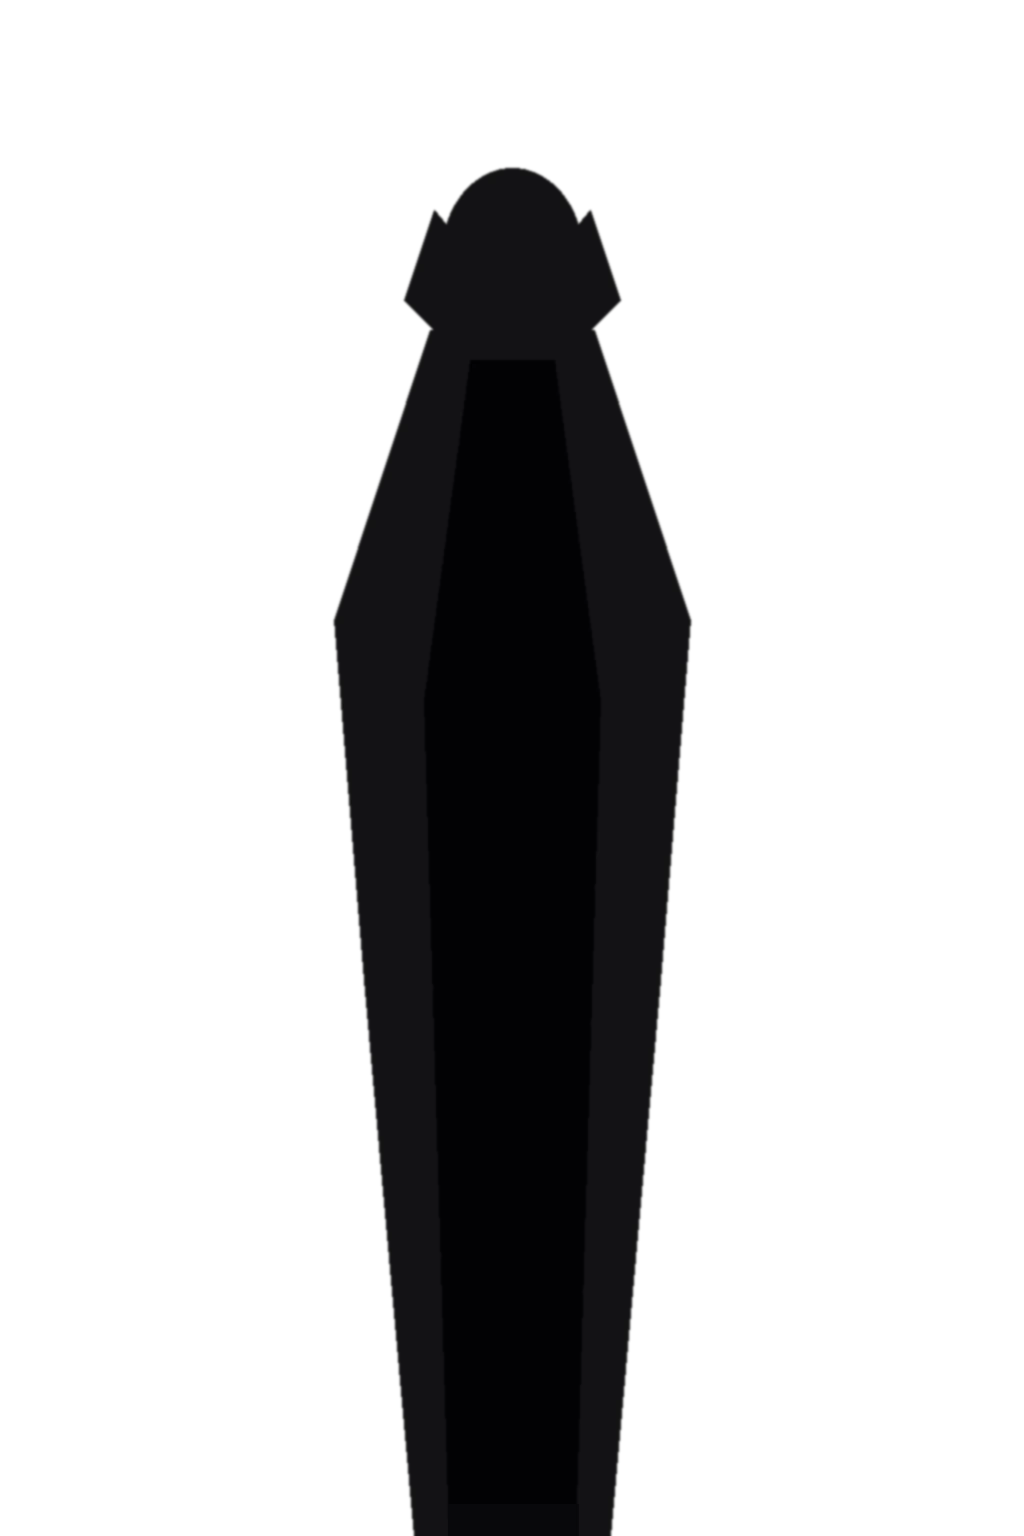
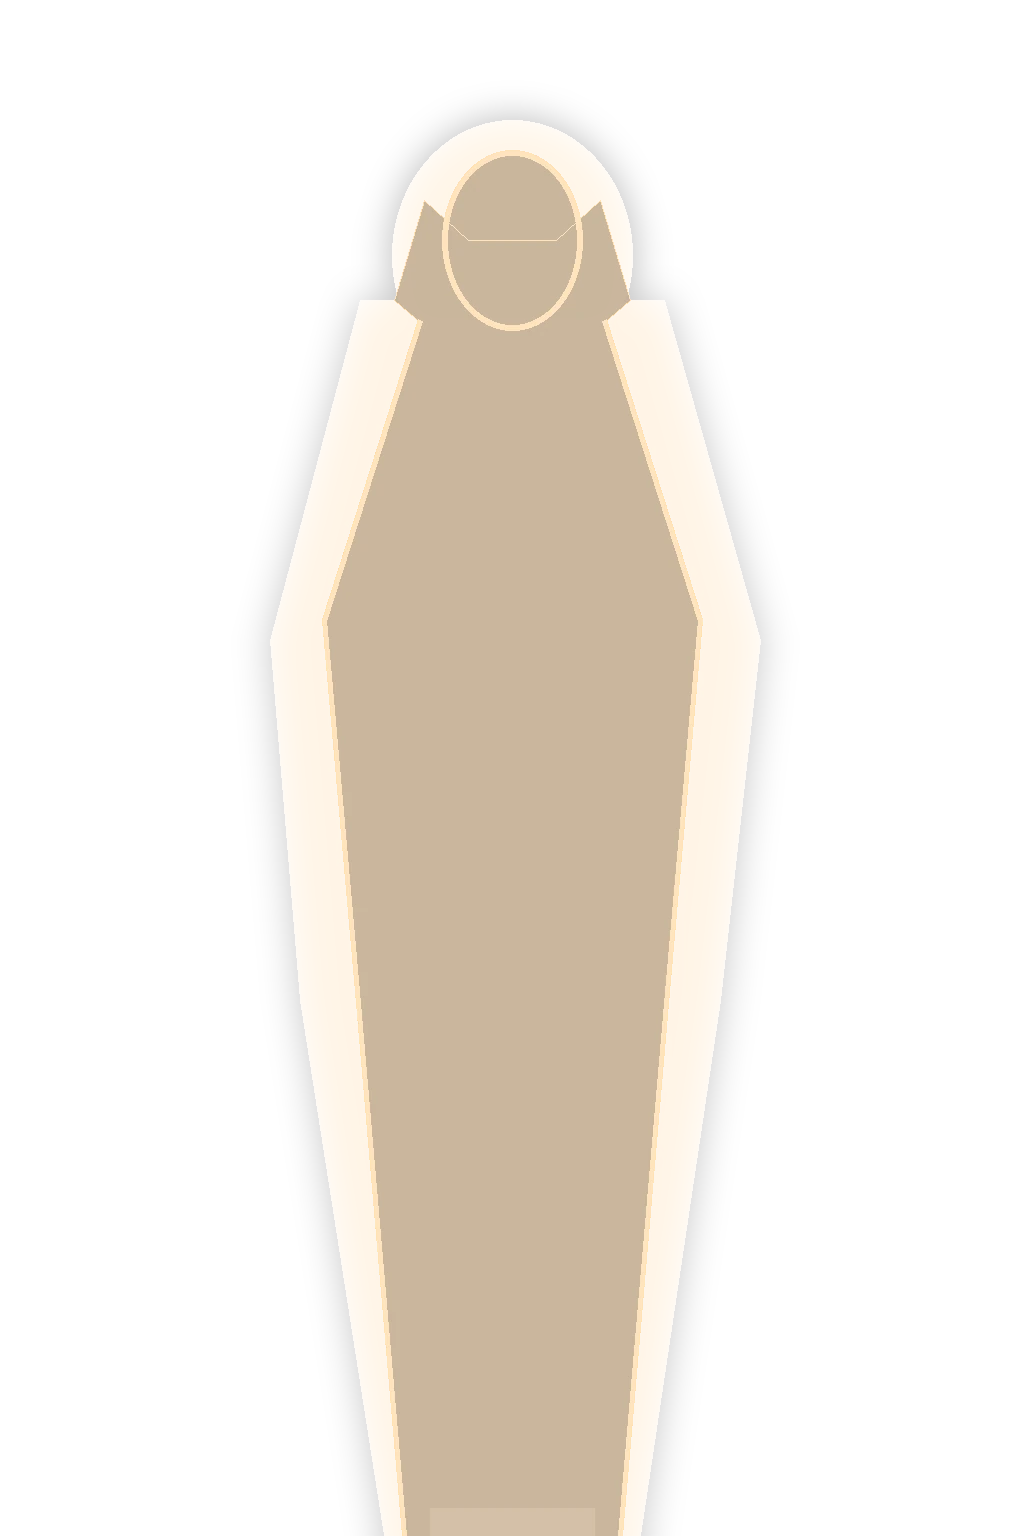
fix(c01): seat the price sign on the plaque and open 严二 before the choice
Move TR_C01_01_PRICE down onto the shop sign so its center sits on the characters. A shared 严二 shape now gives the talk the full hit area, so a center click opens the dialogue before the debt choice on every viewport. The unknown silhouette is lighter, with a rim glow, and the page has an svg favicon.

Changed region(s): [[0.2812, 0.0625, 0.7188, 1.0]]

diff --git a/index.html b/index.html
@@ -1,4 +1,5 @@
 <!doctype html><html lang="zh"><head><meta charset="utf-8"><meta name="viewport" content="width=device-width,initial-scale=1,user-scalable=no"><title>灯渡</title>
+<link rel="icon" href="./favicon.svg" type="image/svg+xml">
 <style>html,body{margin:0;height:100%;background:#070605;overflow:hidden;font-family:serif}
 body{display:flex;align-items:center;justify-content:center}
 #app{position:relative;width:min(96vw,calc(96vh * 9 / 16));aspect-ratio:9/16;height:auto;overflow:hidden;border:6px solid #3a3a42;border-radius:22px;box-shadow:0 0 0 2px #000,0 10px 40px #000c;background:#100e0c;
@@ -48,7 +49,8 @@ button{pointer-events:auto;font-size:3vh;padding:1.5vh 5vh;border:1px solid #e8d
 .hotspotLabels{position:absolute;left:6%;right:6%;top:6%;display:flex;flex-direction:column;gap:4px;pointer-events:none}
 .hotspotMark.single .hotspotLabels{inset:0}
 .hotspot{pointer-events:auto;border:1px solid rgba(232,215,168,.85);background:rgba(20,16,12,.78);color:#f4ecd8;font:inherit;font-size:1.7vh;padding:.4vh .7vh;border-radius:7px;line-height:1.25}
-.hotspotMark.single .hotspot{width:100%;height:100%;background:transparent;border:none;text-shadow:0 1px 3px #000,0 0 8px #000;font-size:2vh}
+.hotspotMark.single .hotspot,.hotspot.fill{position:absolute;inset:0;width:100%;height:100%;background:transparent;border:none;text-shadow:0 1px 3px #000,0 0 8px #000;font-size:2vh;z-index:1}
+.hotspotMark.talk-first .hotspotLabels{z-index:2}
 #gateCard{position:absolute;inset:0;z-index:24;pointer-events:auto;background:#14120f;color:#f4ecd8;display:flex;flex-direction:column;align-items:center;justify-content:center;gap:2vh;text-align:center;padding:8vh;box-sizing:border-box}
 #gateCard.hidden{display:none!important}
 #gateCard h2{margin:0;letter-spacing:.4em;font-size:6vh;font-weight:normal}
@@ -70,6 +72,7 @@ button{pointer-events:auto;font-size:3vh;padding:1.5vh 5vh;border:1px solid #e8d
 .portrait.leaving{opacity:0}
 .portrait.cutout{bottom:0;line-height:0}
 .portrait.cutout img{display:block;width:100%;height:auto;filter:drop-shadow(0 8px 12px rgba(0,0,0,.38))}
+.portrait.cutout.glow img{filter:drop-shadow(0 0 10px rgba(255,236,200,.95)) drop-shadow(0 0 22px rgba(255,196,120,.8)) drop-shadow(0 8px 14px rgba(0,0,0,.45))}
 .portrait.card{top:12%;width:30%;aspect-ratio:3/4;border:2px solid rgba(232,215,168,.9);border-radius:12px;overflow:hidden;background:#1a1612;box-shadow:0 14px 28px rgba(0,0,0,.48)}
 .portrait.card img{width:100%;height:100%;object-fit:cover;object-position:center 12%}
 #dialog.c01{left:var(--art-x);width:var(--art-w);right:auto;top:auto;bottom:calc(var(--frame-h) - var(--art-y) - var(--art-h));max-height:none;height:auto;background:none;border:none;box-shadow:none;padding:0;border-radius:0;display:flex;flex-direction:column;justify-content:flex-end;pointer-events:auto}

diff --git a/src/scene/hotspotBoard.ts b/src/scene/hotspotBoard.ts
@@ -27,26 +27,25 @@ export class HotspotBoard {
     for (const group of groups.values()) {
       const shape = group[0].trigger.shape
       if (!shape) continue
+      const talk = group.find(chip => chip.trigger.type === 'talk')
+      const choice = group.find(chip => chip.trigger.type === 'choice')
+      const talkFirst = !!(talk && choice)
       const mark = document.createElement('div')
-      mark.className = `hotspotMark${shape.kind === 'circle' ? ' circle' : ''}${group.length === 1 ? ' single' : ''}`
+      mark.className = `hotspotMark${shape.kind === 'circle' ? ' circle' : ''}${group.length === 1 ? ' single' : ''}${talkFirst ? ' talk-first' : ''}`
       const box = bounds(shape)
       mark.style.left = `${box.x / canvas.w * 100}%`
       mark.style.top = `${box.y / canvas.h * 100}%`
       mark.style.width = `${box.w / canvas.w * 100}%`
       mark.style.height = `${box.h / canvas.h * 100}%`
+      const press = (chip: HotspotChip) => this.onClick(chip.trigger)
+      if (talkFirst && talk) {
+        mark.append(chipButton(talk, 'hotspot fill', press))
+      }
       const labels = document.createElement('div')
       labels.className = 'hotspotLabels'
       for (const chip of group) {
-        const button = document.createElement('button')
-        button.type = 'button'
-        button.className = 'hotspot'
-        button.dataset.triggerId = chip.trigger.id
-        button.textContent = chip.label
-        button.onclick = event => {
-          event.stopPropagation()
-          this.onClick(chip.trigger)
-        }
-        labels.append(button)
+        if (talkFirst && chip.trigger.id === talk?.trigger.id) continue
+        labels.append(chipButton(chip, 'hotspot', press))
       }
       mark.append(labels)
       this.layer.append(mark)
@@ -54,6 +53,19 @@ export class HotspotBoard {
   }
 
   clear() { this.layer.innerHTML = '' }
+}
+
+function chipButton(chip: HotspotChip, className: string, press: (chip: HotspotChip) => void) {
+  const button = document.createElement('button')
+  button.type = 'button'
+  button.className = className
+  button.dataset.triggerId = chip.trigger.id
+  button.textContent = chip.label
+  button.onclick = event => {
+    event.stopPropagation()
+    press(chip)
+  }
+  return button
 }
 
 function bounds(shape: HotspotShape) {

diff --git a/src/scene/portraitStage.ts b/src/scene/portraitStage.ts
@@ -68,7 +68,7 @@ export class PortraitStage {
 
   private create(speaker: string, def: PortraitDef) {
     const fig = document.createElement('figure')
-    fig.className = `portrait ${def.mode === 'card' ? 'card' : 'cutout'}`
+    fig.className = `portrait ${def.mode === 'card' ? 'card' : 'cutout'}${def.generated ? ' glow' : ''}`
     fig.dataset.speaker = speaker
     fig.dataset.mode = def.mode
     const img = document.createElement('img')
